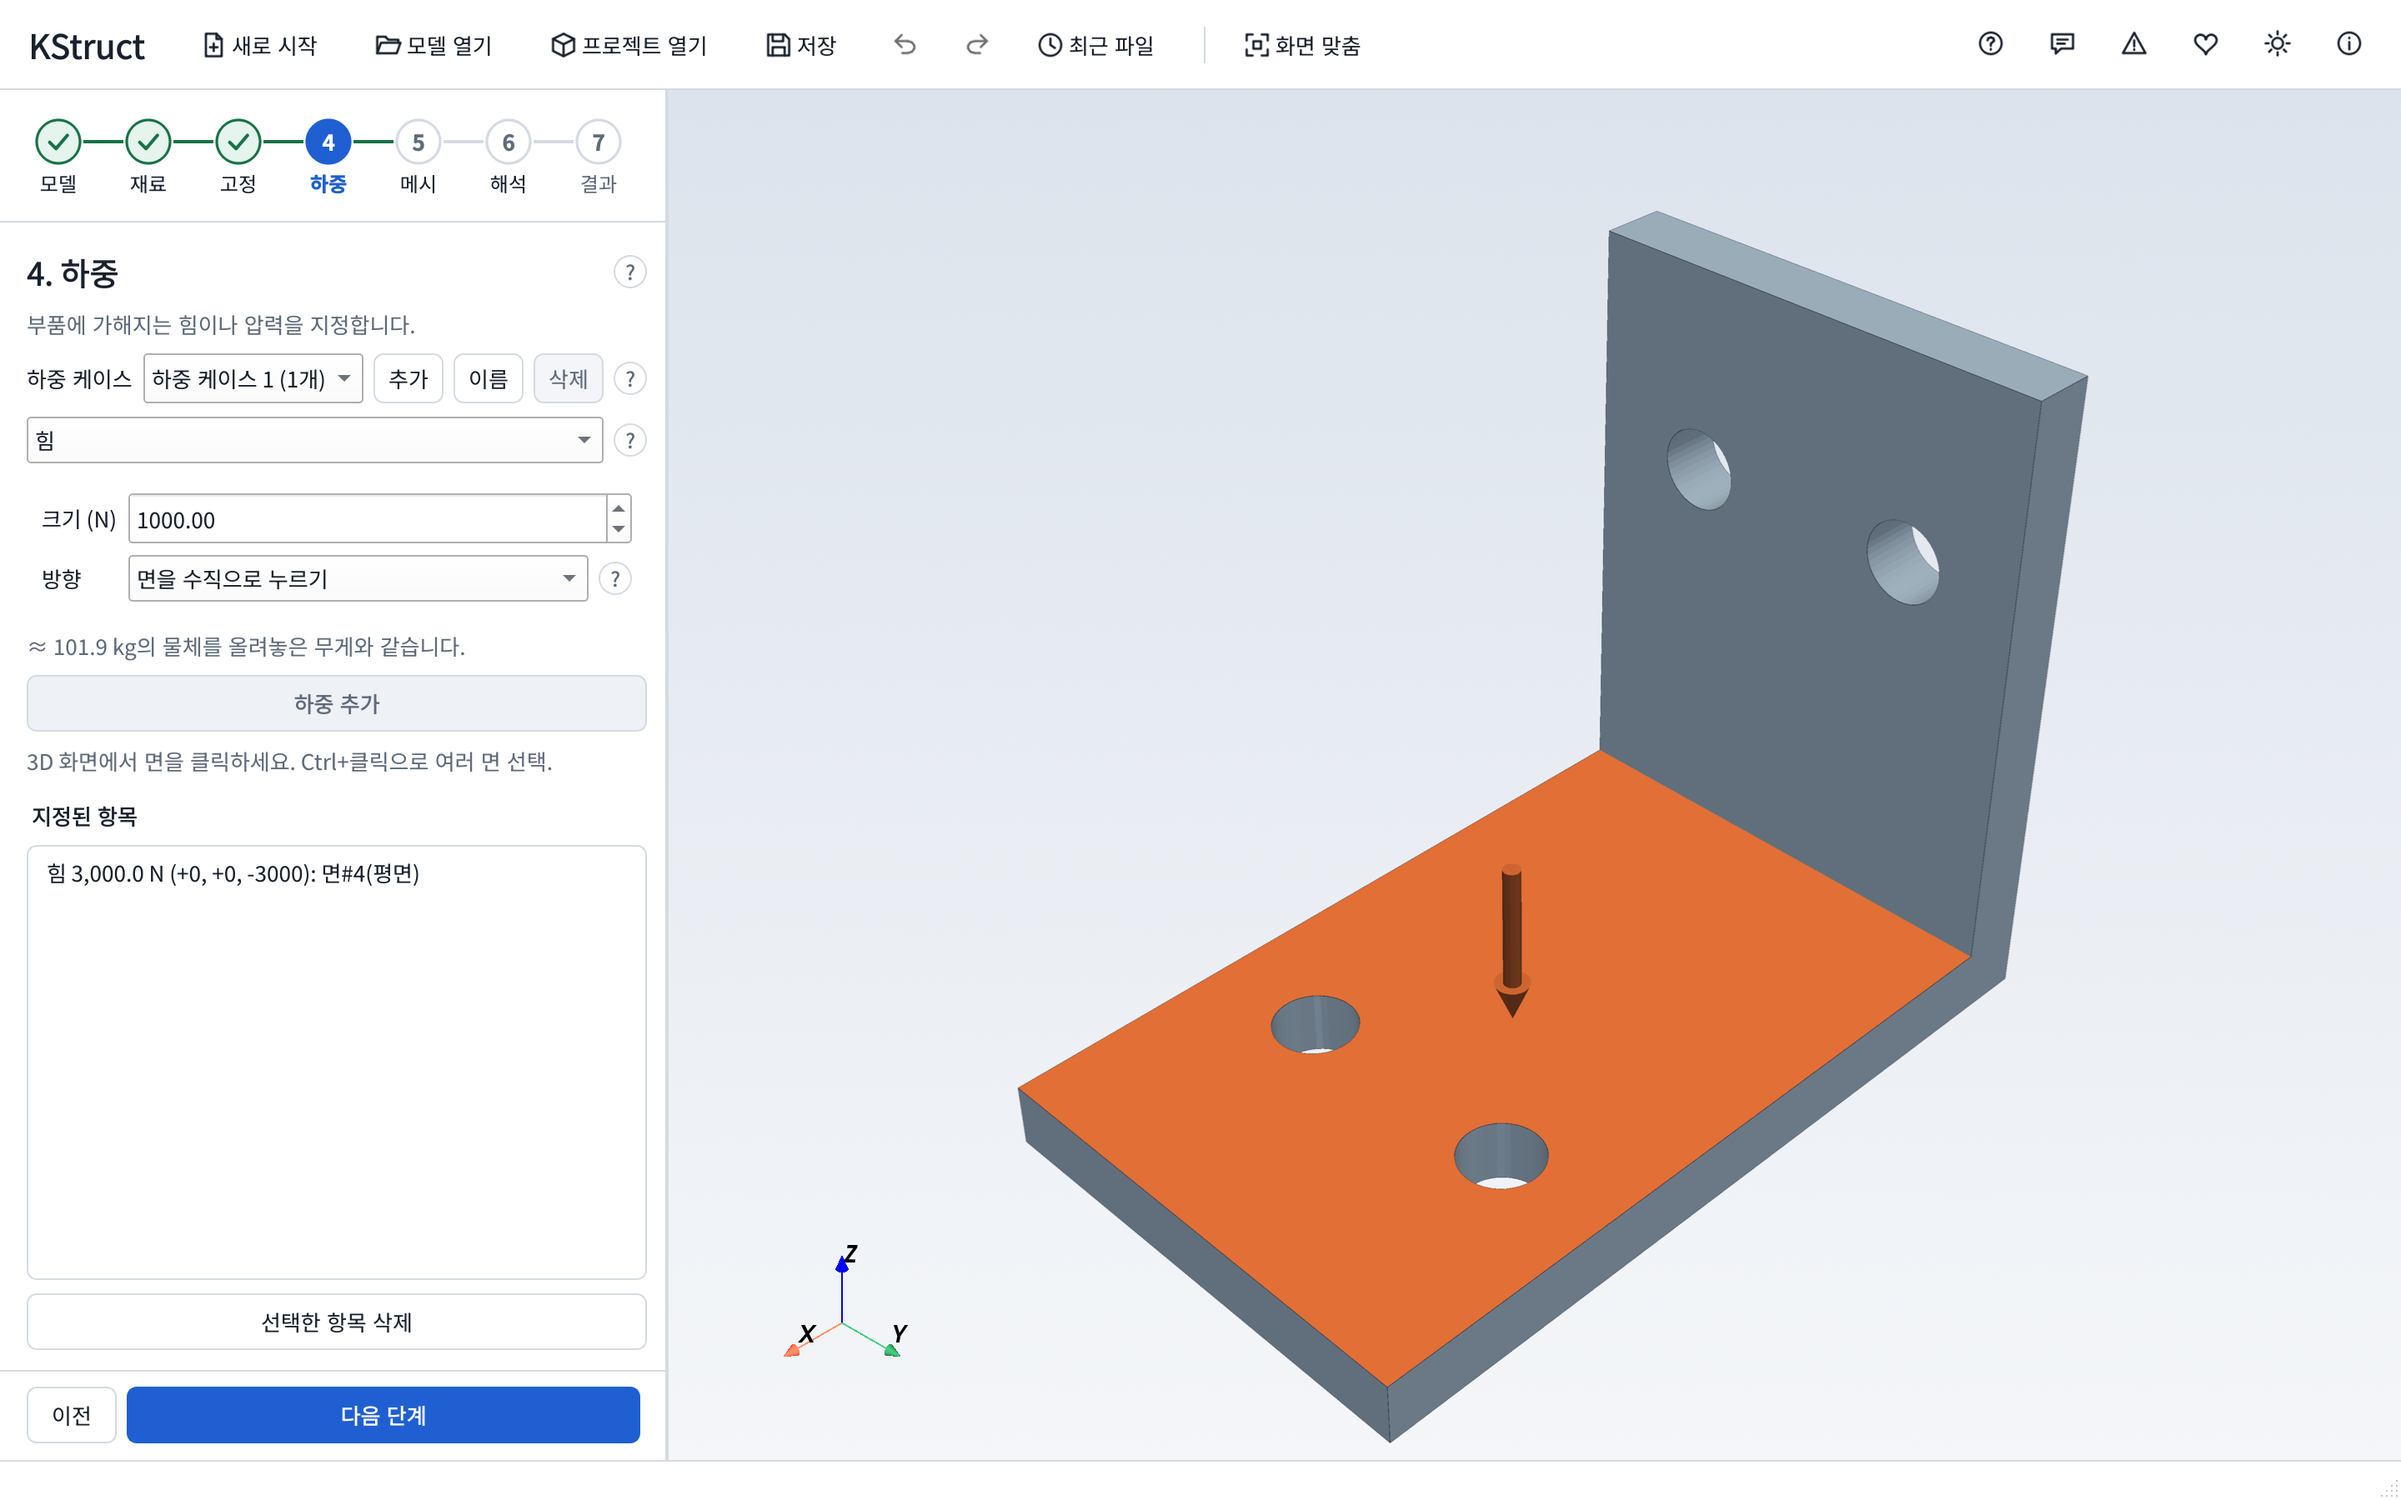
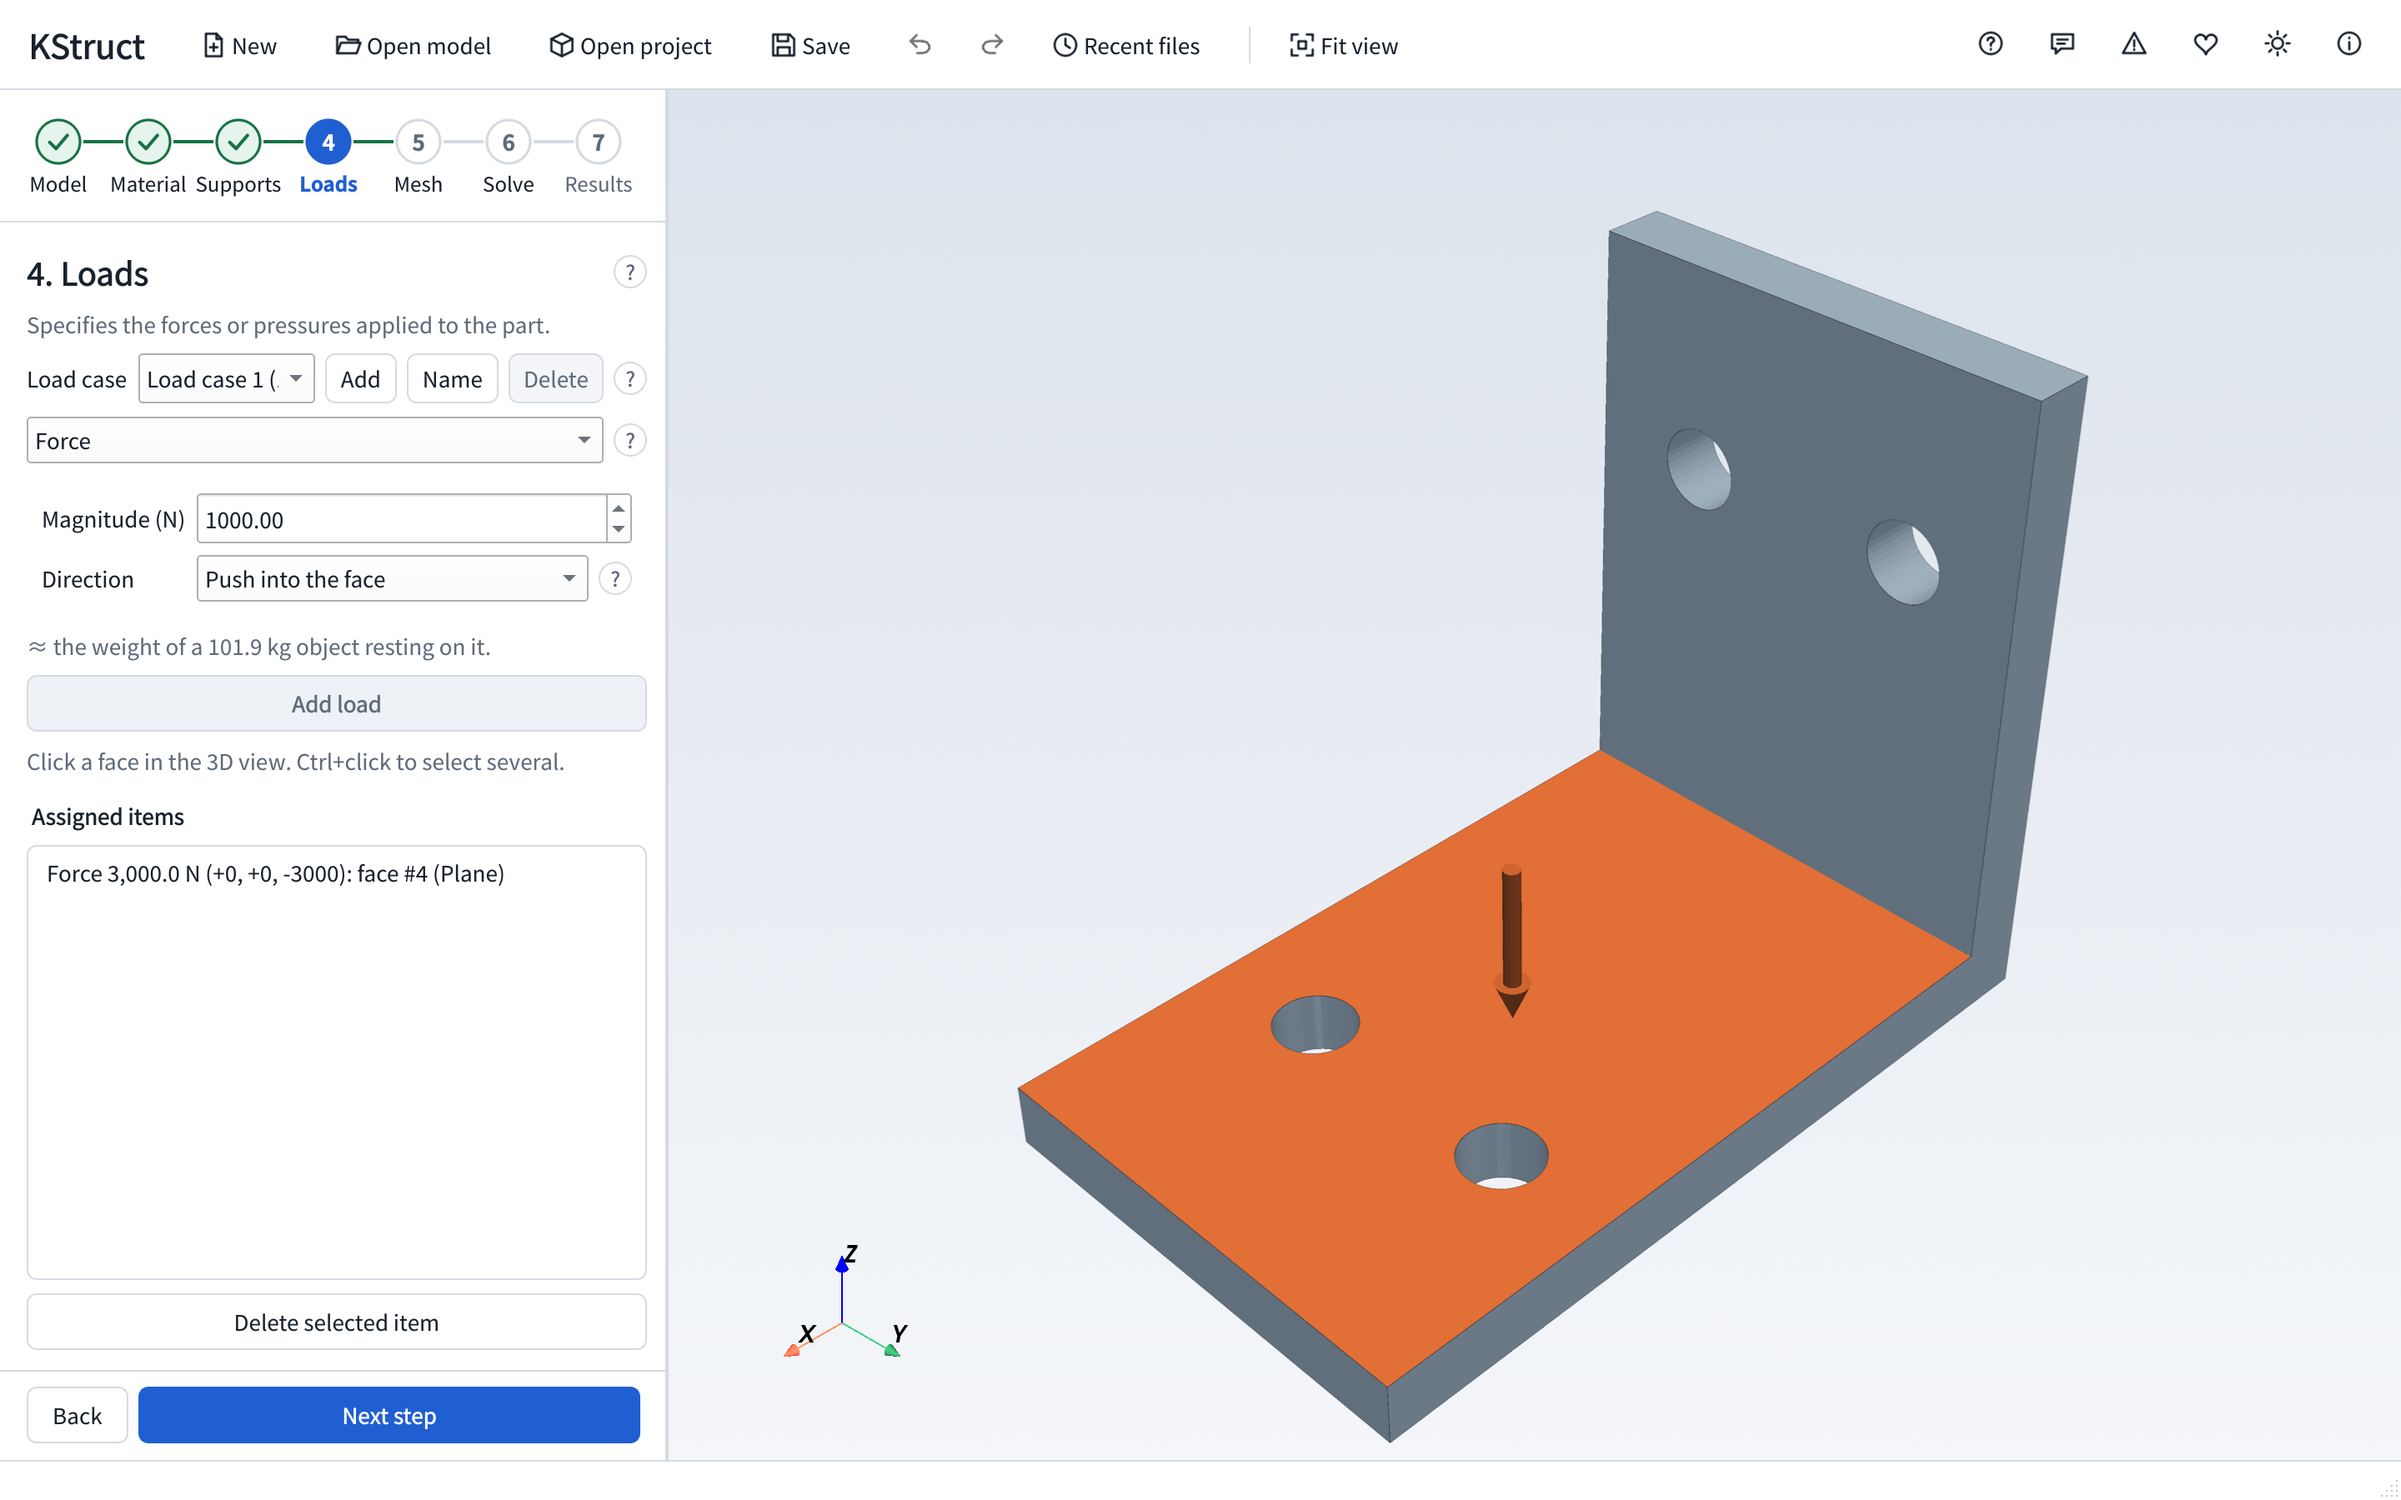
Store screenshots in English (replace the Korean set)
docs/screenshots/<size>/ now holds the English screenshots (moved from en/);
all_store_screenshots.sh writes English there by default and Korean to ko/ on
request; README updated.

Claude-Session: https://claude.ai/code/session_01A9NzuHPqp7Wrrs8zF7CMvh

diff --git a/docs/screenshots/README.md b/docs/screenshots/README.md
@@ -1,6 +1,6 @@
 # 앱 등록용 스크린샷
 
-한국어 화면은 이 폴더, 영어 화면은 `en/` 아래 같은 구조(`en/1920x1080/`, `en/2880x1800/`)에 있습니다.
+스크린샷은 **영어 화면**입니다(`KSTRUCT_LANG=en`). 한국어 화면이 필요하면 아래 명령의 `ko`로 `ko/` 아래에 만듭니다.
 
 | 폴더 | 크기 | 용도 |
 |---|---|---|
@@ -22,17 +22,17 @@
 예제 모델(브래킷 S355 3 kN, 볼트 체결 판 S355 + M10 10.9 세 개)로 실제 해석한 화면이며, 다시 만들려면:
 
 ```
-QT_SCALE_FACTOR=1.5 xvfb-run -a uv run python packaging/store_screenshots.py 03_stress docs/screenshots/1920x1080/03_stress.png 1280 720
-QT_SCALE_FACTOR=2   xvfb-run -a uv run python packaging/store_screenshots.py 03_stress docs/screenshots/2880x1800/03_stress.png 1440 900
+KSTRUCT_LANG=en QT_SCALE_FACTOR=1.5 xvfb-run -a uv run python packaging/store_screenshots.py 03_stress docs/screenshots/1920x1080/03_stress.png 1280 720
+KSTRUCT_LANG=en QT_SCALE_FACTOR=2   xvfb-run -a uv run python packaging/store_screenshots.py 03_stress docs/screenshots/2880x1800/03_stress.png 1440 900
 ```
 
 장면 이름: `01_welcome 02_setup 03_stress 04_safety 05_bolts 06_modal 07_thermal 08_nonlinear`, 어두운 화면은 장면 이름 뒤에 `_dark`(예: `03_stress_dark` → `09_dark_theme.png`).
 
-언어별로 전부 다시 만들기(영어는 `KSTRUCT_LANG=en`으로 앱을 영어로 띄움):
+전부 다시 만들기:
 
 ```
-xvfb-run -a -s "-screen 0 3000x2000x24" ./packaging/all_store_screenshots.sh ko
-xvfb-run -a -s "-screen 0 3000x2000x24" ./packaging/all_store_screenshots.sh en
+xvfb-run -a -s "-screen 0 3000x2000x24" ./packaging/all_store_screenshots.sh      # 영어 → 이 폴더
+xvfb-run -a -s "-screen 0 3000x2000x24" ./packaging/all_store_screenshots.sh ko   # 한국어 → ko/
 ```
 
 | File | Caption (English, example) |
